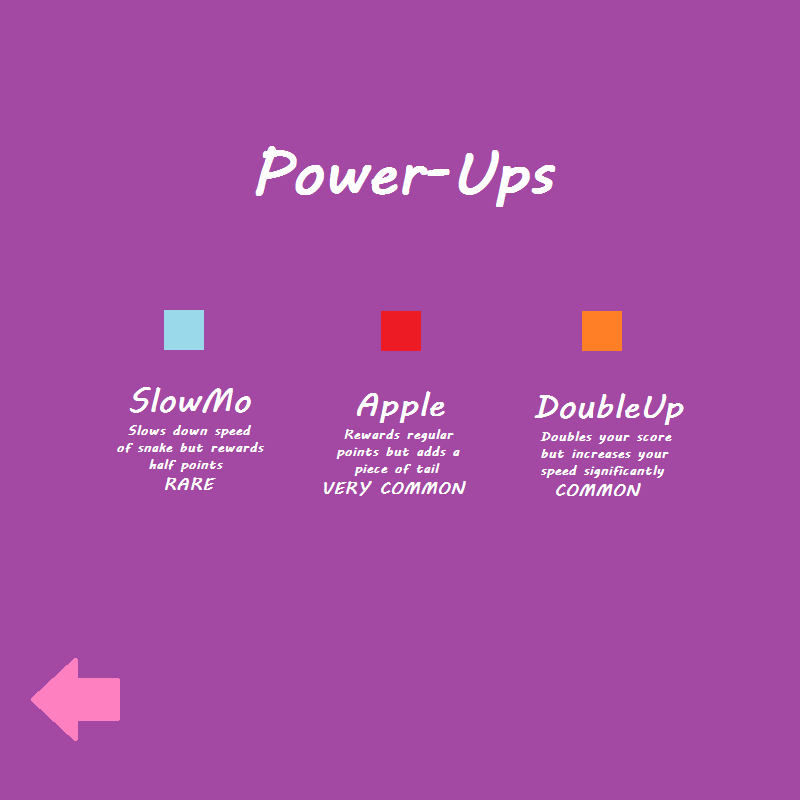
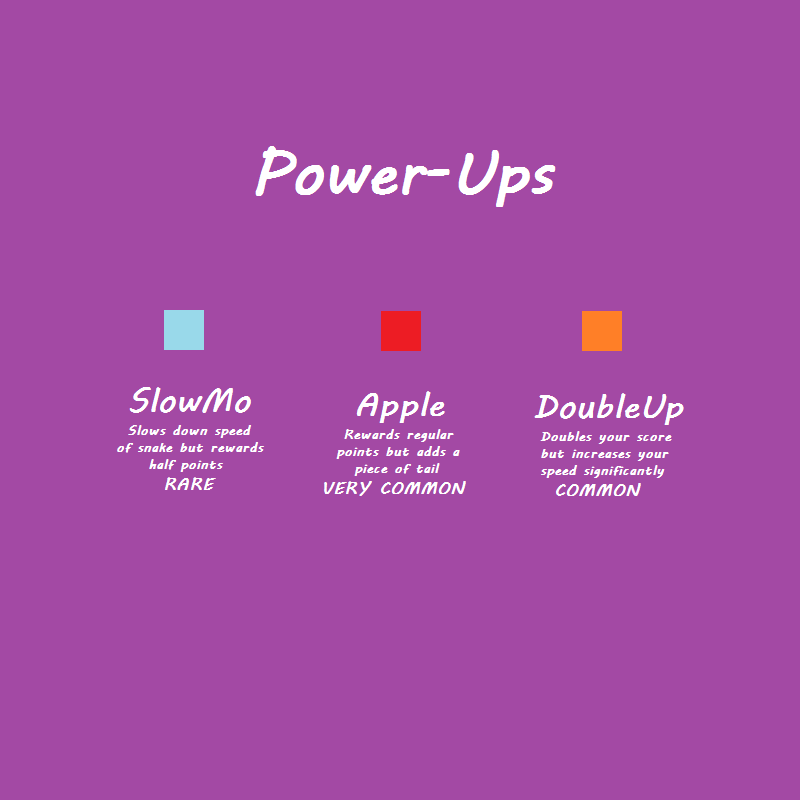
Placed and animated click-able returning you to pause state from helpState.

Changed region(s): [[0.0312, 0.8125, 0.1562, 0.9375]]

diff --git a/src/Resources/Images.java b/src/Resources/Images.java
@@ -14,13 +14,14 @@ public class Images {
     public static BufferedImage[] butstart;
     public static BufferedImage title;
     public static BufferedImage Pause;
-    public static BufferedImage help;
     public static BufferedImage[] Resume;
     public static BufferedImage[] BTitle;
     public static BufferedImage[] Options;
     public static BufferedImage OptionsScreen;
     public static BufferedImage[] party;
     public static ImageIcon icon;
+    public static BufferedImage HelpScreen;
+    public static BufferedImage[] Return;
     
     public Images() {
 
@@ -29,12 +30,13 @@ public class Images {
         BTitle = new BufferedImage[2];
         Options = new BufferedImage[2];
         party = new BufferedImage[3];
+        Return = new BufferedImage[3];
+        
         
         try {
 
             title = ImageIO.read(getClass().getResourceAsStream("/Sheets/Title.png"));
             Pause = ImageIO.read(getClass().getResourceAsStream("/Buttons/Pause.png"));
-            help = ImageIO.read(getClass().getResourceAsStream("/Sheets/HelpScreen.png"));
             Resume[0] = ImageIO.read(getClass().getResourceAsStream("/Buttons/Resume.png"));
             Resume[1] = ImageIO.read(getClass().getResourceAsStream("/Buttons/ResumeP.png"));
             BTitle[0] = ImageIO.read(getClass().getResourceAsStream("/Buttons/BTitle.png"));
@@ -47,6 +49,10 @@ public class Images {
             party[0]= ImageIO.read(getClass().getResourceAsStream("/Buttons/NormParty.png")); //normParty
             party[1]= ImageIO.read(getClass().getResourceAsStream("/Buttons/HoverParty.png")); //hoverParty
             party[2]= ImageIO.read(getClass().getResourceAsStream("/Buttons/ClickedParty.png")); //clickedParty
+            HelpScreen = ImageIO.read(getClass().getResourceAsStream("/Sheets/HelpScreen.png"));
+            Return[0] = ImageIO.read(getClass().getResourceAsStream("/Buttons/ReturnNorm.png"));
+            Return[1] = ImageIO.read(getClass().getResourceAsStream("/Buttons/ReturnHover.png"));
+            Return[2] = ImageIO.read(getClass().getResourceAsStream("/Buttons/ReturnClicked.png"));
             
             icon =  new ImageIcon(ImageIO.read(getClass().getResourceAsStream("/Sheets/icon.png")));
 

diff --git a/src/Game/GameStates/HelpState.java b/src/Game/GameStates/HelpState.java
@@ -3,6 +3,8 @@ package Game.GameStates;
 
 import Main.Handler;
 import Resources.Images;
+import UI.ClickListlener;
+import UI.UIImageButton;
 import UI.UIManager;
 
 import java.awt.*;
@@ -20,7 +22,15 @@ public class HelpState extends State {
         handler.getMouseManager().setUimanager(uiManager);
         
         // Add click-able to return to pause screen over bottom left arrow
-        // Draw animated arrows and add them to buttons for click-able 
+        // Draw animated arrows and add the 
+        
+        uiManager.addObjects(new UIImageButton(handler.getWidth()/5-120, handler.getHeight()/3+370, 100, 100, Images.Return, new ClickListlener() {
+            @Override
+            public void onClick() {
+                handler.getMouseManager().setUimanager(null); 
+                State.setState(handler.getGame().pauseState);
+            }
+        }));
         
     }
     @Override
@@ -34,7 +44,7 @@ public class HelpState extends State {
     public void render(Graphics g) {
     	g.setColor(Color.MAGENTA);
         g.fillRect(0,0,handler.getWidth(),handler.getHeight());
-        g.drawImage(Images.help,0,0,handler.getWidth(),handler.getHeight(),null);
+        g.drawImage(Images.HelpScreen,0,0,handler.getWidth(),handler.getHeight(),null);
         uiManager.Render(g);
 
     }
